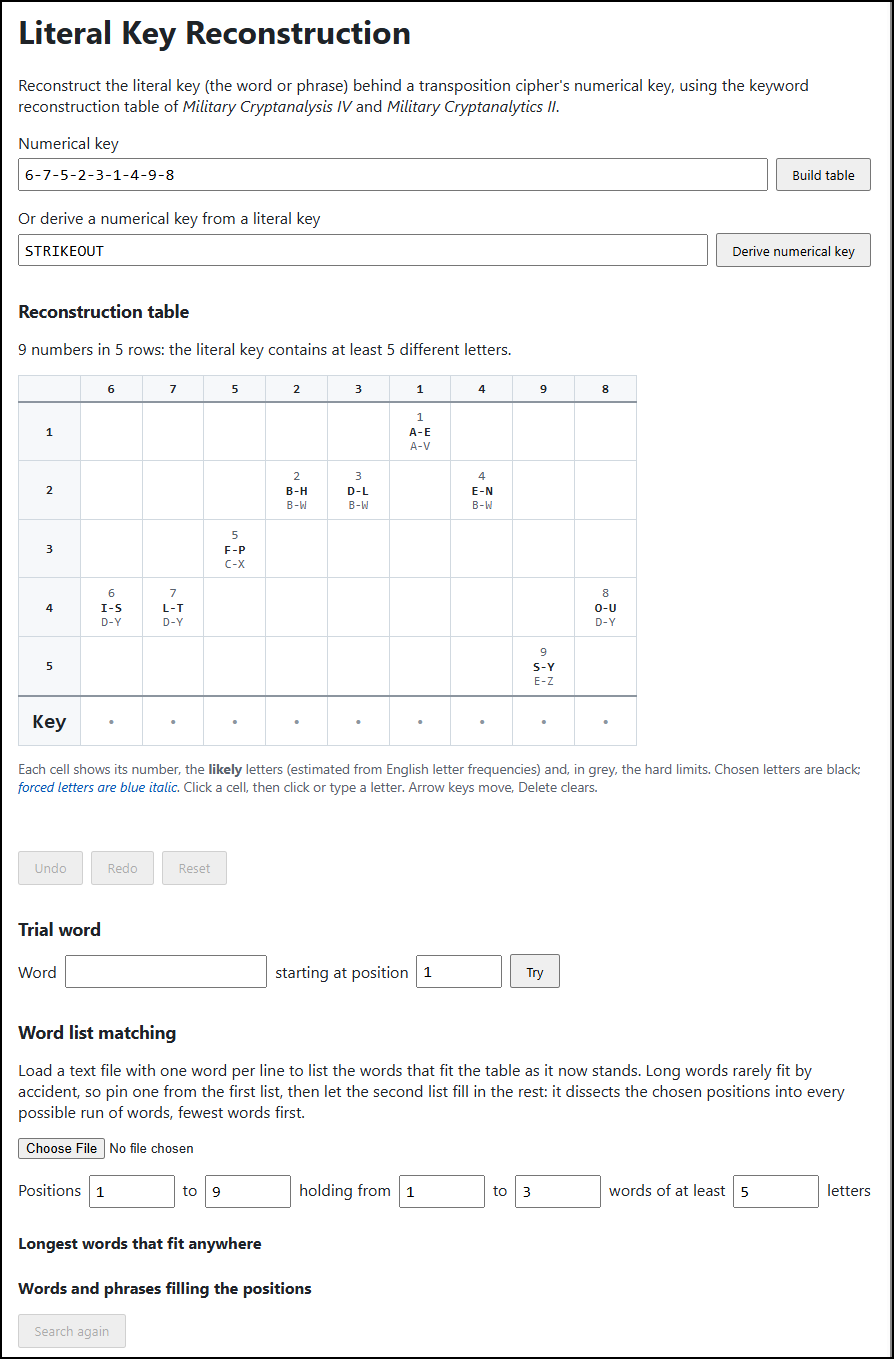
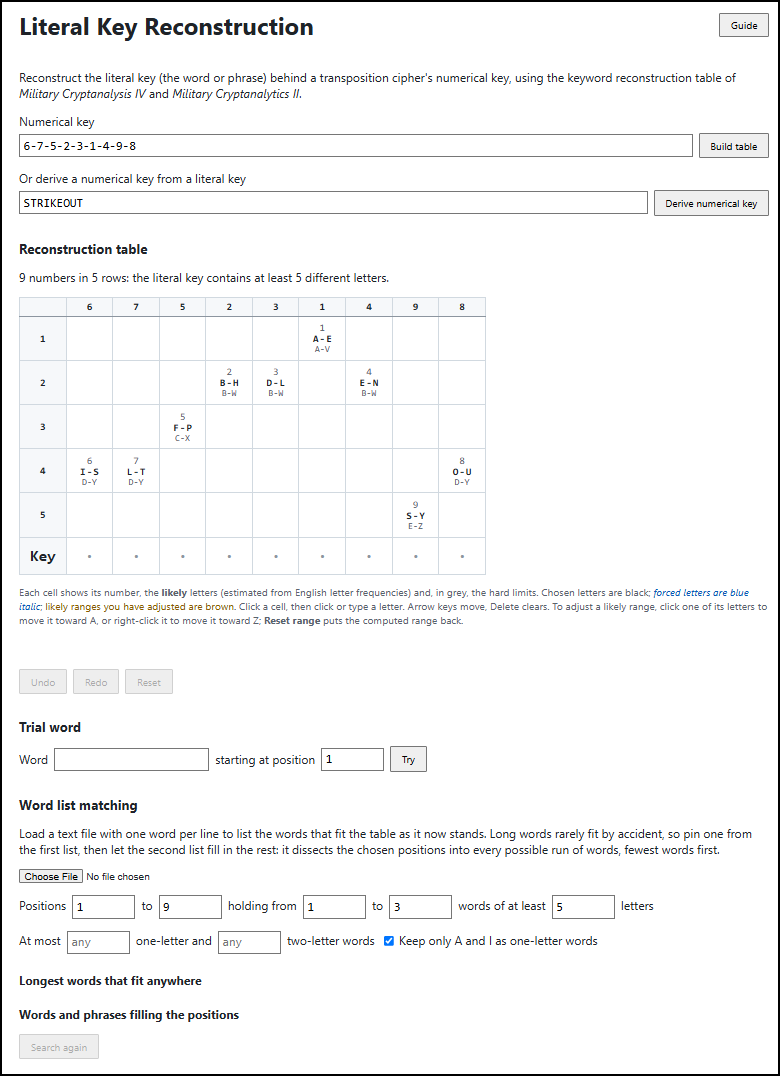
Literal Key Reconstruction: recapture graphics, explain slow searches
Recapture the screenshots that show the word list matching filters so
they include the short-word limits and the A-and-I checkbox. Explain in
the guide when a word match runs slowly and how the limits help.

diff --git a/docs/literal-key-reconstruction/literal-key-reconstruction-guide.html b/docs/literal-key-reconstruction/literal-key-reconstruction-guide.html
@@ -226,6 +226,12 @@ German). Searching the Internet will find such lists. Here are links to
 English lists you may want to download and use:</p>
 <ul>
 <li><a
+href="https://www.cryptogram.org/resource-area/aca-word-lists/">The ACA
+(American Cryptogram Association) word lists</a>. Public word lists for
+languages from Croatian and Czech to Spanish and Swedish. Very useful
+for reconstructing literal keys in both English and foreign
+languages.</li>
+<li><a
 href="https://raw.githubusercontent.com/first20hours/google-10000-english/master/20k.txt">Google
 20,000 most common English words</a> (20,000 words). Few obscure words,
 so the matches are short and readable.</li>
@@ -264,18 +270,42 @@ It starts out as the whole key.</li>
 phrase may contain.</li>
 <li><strong>words of at least … letters</strong>: the shortest word
 allowed. Raising it cuts down on short-word noise.</li>
-<li><strong>At most … one-letter and … two-letter words</strong>:
-optional limits on how many short words a phrase may contain; leave a
-box blank for no limit. Short words fit almost anywhere, so a long key
-searched with a minimum of 1 or 2 can run for hours, especially with a
-list full of two-letter abbreviations.</li>
-<li><strong>Keep only A and I as one-letter words</strong>: many word
-lists include every letter of the alphabet as a word. While this is
-ticked, as it is at the start, all of them except A and I are ignored;
-untick it to use every one-letter word in the list. Together with limits
-such as one one-letter word and one two-letter word, it can bring a long
-search down to a few minutes.</li>
 </ul>
+<p>The following options are valuable when a word match takes an
+inordinate amount of time. A slow run is likely when several of these
+come together:</p>
+<ul>
+<li>a long key, such as the 37 numbers of PETER PIPER PICKED A PECK OF
+PICKLED PEPPERS;</li>
+<li>a phrase of many words, such as 8 to 8;</li>
+<li><strong>words of at least</strong> set to 1 or 2, because the key
+may hold words such as A, I, OF or TO;</li>
+<li>a word list with many one- and two-letter entries: every letter of
+the alphabet, or abbreviations such as CD, NH and TV. The Google and
+dwyl lists above are like this.</li>
+</ul>
+<p>The reason is how the search works. It builds each phrase one word at
+a time, trying every word that fits the next stretch of the key, and
+follows each try to the end of the phrase. Hardly any long word fits a
+given stretch, but a stretch of one or two positions is fitted by
+hundreds of short entries, and each of them starts a new line of tries.
+Over eight words, these multiply into a search that can run for days.
+Cutting down the short words cuts those lines off early. The following
+two options address these issues:</p>
+<ul>
+<li><strong>At most … one-letter and … two-letter words</strong>: limits
+on how many short words a phrase may contain; leave a box blank for no
+limit. A real phrase rarely needs more than one or two, so low limits
+lose little.</li>
+<li><strong>Keep only A and I as one-letter words</strong>: ignores
+every other single letter in the word list. It is ticked at the start;
+untick it only if your key may use another letter as a word.</li>
+</ul>
+<p>Used together, they matter more than either alone. With the Google
+list, PETER PIPER’s key, 8 words and a minimum of 1, the search ran all
+night and reached only 20%; with this box ticked and limits of one
+one-letter and one two-letter word, it finishes in under three
+minutes.</p>
 <p>Phrases with the fewest words are listed first, and the search stops
 after 300 matches; the line beside <strong>Search again</strong> says
 when it has. Press <strong>Show 600 more</strong> to carry on from where

diff --git a/docs/literal-key-reconstruction/example-1-matching-one-word-key.html b/docs/literal-key-reconstruction/example-1-matching-one-word-key.html
@@ -92,17 +92,19 @@ match, so leave them alone.</li>
 <li>The word range of 1 to 1 means you’re looking for a single word that
 solves the numerical key.</li>
 <li>Leave the default value for minimum number of letters. With one word
-specified, this value will only trim the “Longest words” results.</li>
-</ul>
-<div class="indented">
-<p>When the key may contain several words, the smaller the minimum word
+specified, this value will only trim the “Longest words” results.
+<ul>
+<li>When the key may contain several words, the smaller the minimum word
 length, the more time the tool needs to run. If you think the smallest
 word in the key may be three letters (e.g., “the”, “and”), then set the
 minimum value to three (3). If you believe the single-letter words “A”
 or “I” may have been used in the literal key, you will need to specify a
 value of one (1). That slows the search, but may be needed to find the
-correct solution.</p>
-</div>
+correct solution.</li>
+<li>The one- and two-letter limits are left blank, and the A-and-I box
+stays ticked.</li>
+</ul></li>
+</ul>
 <p><img src="graphics/example-1-50.png"
 title="Setting the word list matching filter"
 alt="Setting the word list matching filter" /><br />
@@ -113,7 +115,7 @@ alt="The search results" /><br />
 </p>
 <div class="indented">
 <p><b>Note:</b> This screenshot shows proper names, brand names and
-abbreviations, such as PUBMED, XHTML, SONOMA and COHEN. Frequency lists
+abbreviations, such as PUBMED, SONOMA, XHTML, COHEN. Frequency lists
 built from web text include them. You should be aware of such noise when
 using public word lists.</p>
 </div>

diff --git a/docs/literal-key-reconstruction/example-2-matching-multi-word-key.html b/docs/literal-key-reconstruction/example-2-matching-multi-word-key.html
@@ -50,6 +50,10 @@ alt="Military Cryptanalytics, Part III, page 307" /><br />
 <p>Although the example is a transposition matrix containing blanks, we
 are interested in the numerical key on top of the matrix:</p>
 <pre><code>21 13 10 18 6 5 16 19 1 20 7 17 14 9 2 12 8 15 11 4 3</code></pre>
+<div class="indented">
+<p>In footnote 48 above, Lambros D. Callimahos challenges the reader to
+recover the literal key. We will do that with our tool.</p>
+</div>
 <p>As in <a href="example-1-matching-one-word-key.html">Example 1</a>,
 we start with a plan:</p>
 <ul>

diff --git a/docs/literal-key-reconstruction/literal-key-reconstruction-guide.md b/docs/literal-key-reconstruction/literal-key-reconstruction-guide.md
@@ -172,6 +172,7 @@ any Latin character language (e.g., English, French, German).  Searching the
 Internet will find such lists.  Here are links to English lists you may want
 to download and use:
 
+* [The ACA (American Cryptogram Association) word lists](https://www.cryptogram.org/resource-area/aca-word-lists/). Public word lists for languages from Croatian and Czech to Spanish and Swedish.  Very useful for reconstructing literal keys in both English and foreign languages.
 * [Google 20,000 most common English words](https://raw.githubusercontent.com/first20hours/google-10000-english/master/20k.txt)
   (20,000 words). Few obscure words, so the matches are short and readable.
 * [Google 10,000 most common US English words](https://raw.githubusercontent.com/first20hours/google-10000-english/master/google-10000-english-usa.txt)
@@ -203,22 +204,44 @@ completely with one or more words, using these settings:
 * **holding from … to … words**: how many words the phrase may contain.
 * **words of at least … letters**: the shortest word allowed. Raising it cuts
   down on short-word noise.
-* **At most … one-letter and … two-letter words**: optional limits on how many
-  short words a phrase may contain; leave a box blank for no limit. Short
-  words fit almost anywhere, so a long key searched with a minimum of 1 or 2
-  can run for hours, especially with a list full of two-letter abbreviations.
-* **Keep only A and I as one-letter words**: many word lists include every
-  letter of the alphabet as a word. While this is ticked, as it is at the
-  start, all of them except A and I are ignored; untick it to use every
-  one-letter word in the list. Together with limits such as one one-letter word and one two-letter
-  word, it can bring a long search down to a few minutes.
+  
+The following options are valuable when a word match takes an inordinate
+amount of time. A slow run is likely when several of these come together:
+
+* a long key, such as the 37 numbers of PETER PIPER PICKED A PECK OF PICKLED
+  PEPPERS;
+* a phrase of many words, such as 8 to 8;
+* **words of at least** set to 1 or 2, because the key may hold words such as
+  A, I, OF or TO;
+* a word list with many one- and two-letter entries: every letter of the
+  alphabet, or abbreviations such as CD, NH and TV. The Google and dwyl lists
+  above are like this.
+
+The reason is how the search works. It builds each phrase one word at a time,
+trying every word that fits the next stretch of the key, and follows each try
+to the end of the phrase. Hardly any long word fits a given stretch, but a
+stretch of one or two positions is fitted by hundreds of short entries, and
+each of them starts a new line of tries. Over eight words, these multiply into
+a search that can run for days. Cutting down the short words cuts those lines
+off early.  The following two options address these issues:
+
+* **At most … one-letter and … two-letter words**: limits on how many short
+  words a phrase may contain; leave a box blank for no limit. A real phrase
+  rarely needs more than one or two, so low limits lose little.
+* **Keep only A and I as one-letter words**: ignores every other single
+  letter in the word list. It is ticked at the start; untick it only if your
+  key may use another letter as a word.
+
+Used together, they matter more than either alone. With the Google list,
+PETER PIPER's key, 8 words and a minimum of 1, the search ran all night and
+reached only 20%; with this box ticked and limits of one one-letter and one
+two-letter word, it finishes in under three minutes.
 
 Phrases with the fewest words are listed first, and the search stops after
 300 matches; the line beside **Search again** says when it has. Press **Show 600
 more** to carry on from where it stopped, as often as you like. To keep the
 page responsive, each press replaces the phrases on screen with the next 600,
-headed by the range they cover, for example *Showing matches 301-900*. A long search runs in the background: a progress bar shows how
-far it has got, and **Stop** halts it. Click a phrase to place it in the table.
+headed by the range they cover, for example *Showing matches 301-900*. A long search runs in the background: a progress bar shows how far it has got, and **Stop** halts it. Click a phrase to place it in the table.
 
 Every letter you place, by any means, restarts both lists, so they always
 reflect the table as it now stands. The best way to work is to pin a long word

diff --git a/docs/literal-key-reconstruction/example-1-matching-one-word-key.md b/docs/literal-key-reconstruction/example-1-matching-one-word-key.md
@@ -40,10 +40,8 @@ Set the matching filter:
 * Positions 1 to 13 already cover the whole key, which you want to match, so leave them alone.
 * The word range of 1 to 1 means you're looking for a single word that solves the numerical key.
 * Leave the default value for minimum number of letters.  With one word specified, this value will only trim the "Longest words" results.
-
-::: indented
-When the key may contain several words, the smaller the minimum word length, the more time the tool needs to run.  If you think the smallest word in the key may be three letters (e.g., "the", "and"), then set the minimum value to three (3).  If you believe the single-letter words "A" or "I" may have been used in the literal key, you will need to specify a value of one (1). That slows the search, but may be needed to find the correct solution.
-:::
+    * When the key may contain several words, the smaller the minimum word length, the more time the tool needs to run.  If you think the smallest word in the key may be three letters (e.g., "the", "and"), then set the minimum value to three (3).  If you believe the single-letter words "A" or "I" may have been used in the literal key, you will need to specify a value of one (1). That slows the search, but may be needed to find the correct solution.
+    * The one- and two-letter limits are left blank, and the A-and-I box stays ticked.
 
 ![Setting the word list matching filter](graphics/example-1-50.png "Setting the word list matching filter")\
 
@@ -52,7 +50,7 @@ After a moment, you can see the results:
 ![The search results](graphics/example-1-60.png "The search results")\
 
 ::: indented
-<b>Note:</b> This screenshot shows proper names, brand names and abbreviations, such as PUBMED, XHTML, SONOMA and COHEN. Frequency lists built from web text include them. You should be aware of such noise when using public word lists.
+<b>Note:</b> This screenshot shows proper names, brand names and abbreviations, such as PUBMED, SONOMA, XHTML, COHEN. Frequency lists built from web text include them. You should be aware of such noise when using public word lists.
 :::
 
 ### Results: Longest words that fit anywhere

diff --git a/docs/literal-key-reconstruction/example-2-matching-multi-word-key.md b/docs/literal-key-reconstruction/example-2-matching-multi-word-key.md
@@ -19,6 +19,10 @@ interested in the numerical key on top of the matrix:
 21 13 10 18 6 5 16 19 1 20 7 17 14 9 2 12 8 15 11 4 3
 ```
 
+::: indented
+In footnote 48 above, Lambros D. Callimahos challenges the reader to recover the literal key.  We will do that with our tool.
+:::
+
 As in [Example 1](example-1-matching-one-word-key.html), we start with a plan:
 
 * Search for 1–5 words of at least 3 letters.
